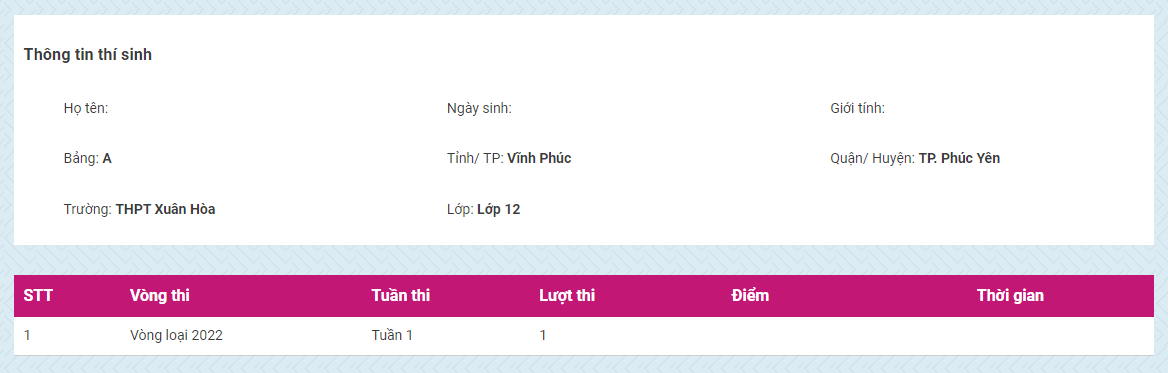
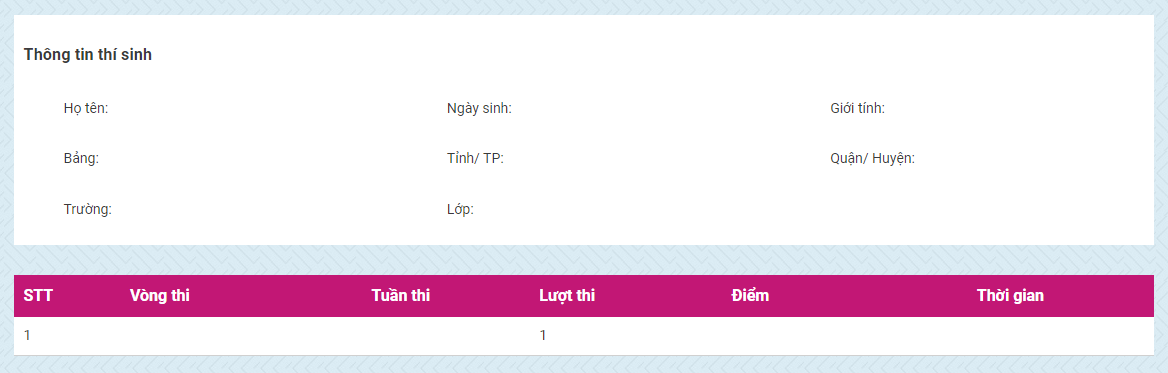
update new

diff --git a/script.js b/script.js
@@ -17,13 +17,20 @@ function writeText() {
         context.drawImage(imageObj, 10, 10);
         context.font = "bold 15px Roboto";
         context.fillStyle = "#3B3B3B";
+        context.fillText("A", 115, 173) //Bảng A;
+        context.fillText("THPT Xuân Hoà", 126, 224.5);
+        context.fillText("Vĩnh Phúc", 520, 173);
+        context.fillText("12", 490, 225);
+        context.fillText("Phúc Yên", 930, 173);
         context.fillText(fullName, 125, 123);
         context.fillText(dob, 528, 123);
         context.fillText(gender, 900, 123);
         context.fillStyle = "black";
         context.font = "15px Roboto";
-        context.fillText(mark, 750, 350);
-        context.fillText(times, 1000, 350);
+        context.fillText(mark, 750, 350) //Điểm;
+        context.fillText("Vòng loại 2022", 122, 350);
+        context.fillText("Tuần 2", 390, 350);
+        context.fillText(times, 1000, 350) //Thời gian;
     };
     imageObj.src = "img.png"; 
 }
